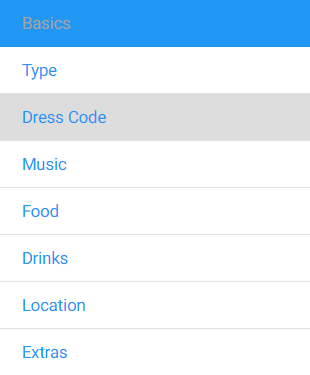
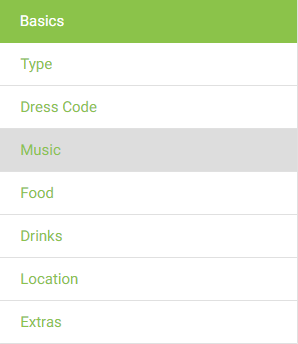
minor design changes

diff --git a/public/css/custom/show.css b/public/css/custom/show.css
@@ -1,12 +1,12 @@
 .tabs .tab a{
-    color: #a3a3a3  ;
+    color: #689F38  ;
 }
 .tabs .indicator{
-    background-color: #2196f3  ;
+    background-color: #FF9800  ;
 
 }
 .tabs .tab a:hover{
-     color: #2196f3;
+     color: #FF9800;
  }
 
 .deletebut {
@@ -23,15 +23,15 @@
 }
 .invitation-button{
     cursor: pointer;
-    background: #2196f3;
+    background: #FF9800;
 
 }
 .invitation-button{
-    background: #2196f3;
+    background: #FF9800;
 }
 .invitation-button:focus{
-    background: #2196f3;
+    background: #FF9800;
 }
 .invitation-button:hover{
-    background: #2196f3;
+    background: #FF9800;
 }

diff --git a/resources/views/layouts/app.blade.php b/resources/views/layouts/app.blade.php
@@ -47,6 +47,7 @@
                             @else
                             <li class="waves-effect hide-on-med-and-down">
                                 <div class="container-fluid valign-wrapper">
+                                    <a class="white-text" href="{{url('/about-us')}}">About us</a>
                                     <a class="tooltipped orange-text" data-tooltip="Create New Event" href="{{url('/event/create')}}">Create Event</a>
                                 </div>
                             </li>
@@ -76,7 +77,7 @@
                 <li><a href="{{url('/event/create')}}">Create a new Event</a></li>
                 @if (!Auth::guest())
                     <div class="hide-on-med-and-up">
-                        <li class="divider divider-color"></li>
+                        {{--<li class="divider divider-color"></li>--}}
                         <li>
                             <div class="row valign-wrapper">
                                 <div class="col s4 valign">
@@ -111,14 +112,15 @@
                             @if (Auth::guest())
                                 <li><a class="grey-text" href="{{url('/login')}}">Login</a></li>
                                 <li><a class="grey-text" href="{{url('/register')}}">Register</a></li>
+                                <li><a class="grey-text" href="{{url('/about-us')}}">About us</a></li>
                             @else
                                 <li><a class="grey-text" href="{{url('/event/create')}}">Create Event</a></li>
-                                <li><a class="grey-text" href="{{url('/user/create')}}">Create Event</a></li>
                                 <li><a class="grey-text" href="{{ url('/user/'.auth()->user()->id)}}">Profile</a></li>
                                 <li><a class="grey-text" href="{{ url('/user/'.auth()->user()->id.'/edit') }}">Edit Profile</a></li>
+                                <li><a class="grey-text" href="{{url('/about-us')}}">About us</a></li>
                             @endif
                             <li><a class="grey-text" href="{{url('/event')}}">View All Events</a></li>
-                            <li><a class="grey-text" href="{{url('/about-us')}}">About us</a></li>
+
                         </ul>
                     </div>
                 </div>

diff --git a/resources/views/home.blade.php b/resources/views/home.blade.php
@@ -15,15 +15,16 @@
     }
 
     .create-btn, .create-btn:focus, .create-btn:hover{
-        width: 100%;
+        width: 50%;
         height: 100px;
         background: #689F38;
-
+        display: inline-block;
     }
     .events-btn, .events-btn:focus, .events-btn:hover{
-        width: 100%;
+        width: 50%;
         height: 100px;
         background: #8BC34A;
+        display: inline-block;
     }
     .myprofile-btn, .myprofile-btn:focus, .myprofile-btn:hover{
         width: 100%;
@@ -48,19 +49,18 @@
 
 </style>
     <div class="container">
-        <button onclick="location.href='event/create'" class="btn create-btn hoverable waves-effect valign">Create Event</button>
-        <br>
-        <br>
-        <button onclick="location.href='event'" class="btn events-btn hoverable waves-effect">Events</button>
-        <br>
-        <br>
-        <button onclick="location.href='user/{{$user->id}}'" class="btn myprofile-btn hoverable waves-effect">My profile</button>
+        <a onclick="location.href='event/create'" class="btn create-btn hoverable waves-effect">Create Event</a>
+
+        <a onclick="location.href='event'" class="btn events-btn hoverable waves-effect">Events</a>
+        {{--<br>
+        <br>--}}
+       {{-- <button onclick="location.href='user/{{$user->id}}'" class="btn myprofile-btn hoverable waves-effect">My profile</button>
         <br>
         <br>
         <button onclick="location.href='user/{{$user->id}}/edit'" class="btn editprofile-btn hoverable waves-effect">Edit profile</button>
         <br>
         <br>
-        <button onclick="location.href='about-us'" class="btn meettheteam-btn hoverable waves-effect">Meet the team</button>
+        <button onclick="location.href='about-us'" class="btn meettheteam-btn hoverable waves-effect">Meet the team</button>--}}
 
     </div>
 @endsection

diff --git a/resources/views/events/show-statistics.blade.php b/resources/views/events/show-statistics.blade.php
@@ -13,7 +13,7 @@
 </style>
 <div class="container custom-container">
     <h4 class="primary-text-color">{{ session('message') }}</h4>
-    <span class="well center">Send this link to the people you'd like to invite:
+    <span class="well center orange-text">Send this link to the people you'd like to invite:
         <a href="{{ url('/invitation/'.$event->invitation_code) }}"
            id="inv-code">
             {{ url('/invitation/'.$event->invitation_code) }}
@@ -26,24 +26,22 @@
     </span>
     <hr>
     <div>
-        <div class="row">
-            <div class="col s12 m4 l2">
-                <a class="btn waves-effect waves-light modal-trigger orange"
-                   href="#modal1">Help?</a>
+        <div class="row center">
+            <div class="col s12 l4 m4  left">
+                <a class="btn waves-effect waves-light modal-trigger white light-green-text"
+                   href="#modal1">Need Help?</a>
             </div>
-            <div class="col s12 m4 l2 offset-l6">
+            <div class="col s12 l4 m4  center">
                 <a class="btn invitation-button"
                    href="{{ url('/invitation/'.$event->invitation_code) }}">Invitation</a>
             </div>
-            <div class="col s12 m4 l2">
+            <div class="col s12 l4 m4 right">
                 <form action="{{url('/event/'.$event->id )}}"
                       method="post">
                     {{ method_field('delete') }}
                     {{ csrf_field() }}
 
-                    <button type="submit" class="waves-effect waves-light btn">
-                        Delete event
-                    </button>
+                    <a type="submit" class="waves-effect waves-light red btn"><i class="material-icons right">delete</i>Delete Event</a>
                 </form>
             </div>
         </div>

diff --git a/resources/views/invitations/show.blade.php b/resources/views/invitations/show.blade.php
@@ -150,7 +150,7 @@
         </nav>
         <div class="container center" id="main">
             <h5 class="orange-text center">
-                Hello, {{ $event->user->first_name.' '.$event->user->last_name }}
+                Hello, <span class="light-green-text">{{ $event->user->first_name.' '.$event->user->last_name }}</span>
                 invites you to
                 <strong>{{ $event->title }}</strong>
             </h5>
@@ -161,14 +161,14 @@
                 <p class="center">
                     A
                     @if(!empty($event->type))
-                        <strong>{{ $event->type }}</strong>
+                        <strong class="light-green-text">{{ $event->type }}</strong>
                     @else
                         <strong>{{ $event->title }}</strong>
                     @endif
 
                     @if(!empty($event->date))
                         that takes place on
-                        <strong>{{ $event->date }}</strong>
+                        <strong class="light-green-text">{{ $event->date }}</strong>
                     @endif
 
                     @if(!empty($event->location_string))

diff --git a/resources/views/users/my-events.blade.php b/resources/views/users/my-events.blade.php
@@ -99,7 +99,7 @@
                                     <div class="row">
                                         <p class="center">
                                             <a href="{{ url('/event/'.$event->id) }}">
-                                                <strong class="center blue-text">{{ $event->title }}</strong>
+                                                <strong class="center light-green-text">{{ $event->title }}</strong>
                                                 <div class="divider"></div>
                                             </a>
                                     </div>
